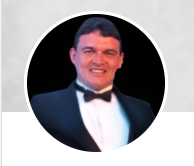
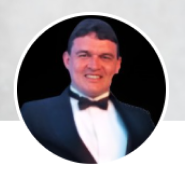
chore: modify styles

diff --git a/src/Components/Card/Card.jsx b/src/Components/Card/Card.jsx
@@ -27,9 +27,9 @@ const Card = () => {
               <div className={style.icon}>
                 <Email />
               </div>
-              <div className={style.infos_name}>
-                <h4>EMAIL</h4>
-                <p>jddatsoc@gmail.com</p>
+              <div>
+                <h4 className="name">EMAIL</h4>
+                <p className="description">jddatsoc@gmail.com</p>
               </div>
             </div>
             <div className={style.infos}>
@@ -37,8 +37,8 @@ const Card = () => {
                 <Phone />
               </div>
               <div className={style.infos_name}>
-                <h4>PHONE</h4>
-                <p>+55 (84) 9 9904-3539</p>
+                <h4 className="name">PHONE</h4>
+                <p className="description">+55 (84) 9 9904-3539</p>
               </div>
             </div>
             <div className={style.infos}>
@@ -46,8 +46,8 @@ const Card = () => {
                 <Birthday />
               </div>
               <div className={style.infos_name}>
-                <h4>BIRTHDAY</h4>
-                <p>May 28, 1985</p>
+                <h4 className="name">BIRTHDAY</h4>
+                <p className="description">May 28, 1985</p>
               </div>
             </div>
             <div className={style.infos}>
@@ -55,8 +55,8 @@ const Card = () => {
                 <Location />
               </div>
               <div className={style.infos_name}>
-                <h4>LOCATION</h4>
-                <p>Natal, Brasil</p>
+                <h4 className="name">LOCATION</h4>
+                <p className="description">Natal, Brasil</p>
               </div>
             </div>
           </div>

diff --git a/src/Components/Content/About_me.jsx b/src/Components/Content/About_me.jsx
@@ -4,20 +4,20 @@ const About_me = () => {
   return (
     <div className="text">
       <p>
-        I'm student a gradate in Computer Science and certified as a Frontend
+        I am currently a Computer Science student and certified as a Frontend
         Engineer by EBAC - British School. I have expertise in problem-solving
-        with technology, Project and team management, Data and performance
-        analysis, Business Intelligence, Marketing and paid traffic analysis,
-        and clear communication.
+        with technology, project and team management, data and performance
+        analysis, Business Intelligence, marketing, paid traffic analysis, and
+        clear communication.
       </p>
       <br />
       <p>
-        As a Frontend Developer since 2021, I have experience in responsive,
-        semantic HTML5, with accessibility and SEO techniques, CSS3, Bootstrap,
+        As a Frontend Developer since 2021, I have experience in responsive
+        HTML5 semantic, with accessibility and SEO techniques, CSS3, Bootstrap,
         Tailwind, LESS, SASS, BEM, SCSS preprocessors, JavaScript, JQuery,
         ReactJS, Typescript, VueJS, React Native, Grunt, Gulp, Parcel, Ajax,
         Redux, Cypress, YUP, JEST build tools, Git version control tools,
-        Github, API consumption, Agile methodologies, VTEX E-commerce platform,
+        GitHub, API consumption, agile methodologies, VTEX e-commerce platform,
         Winthor ERP - TOTVS;
       </p>
     </div>

diff --git a/src/Components/Content/Testemonials.module.css b/src/Components/Content/Testemonials.module.css
@@ -3,12 +3,12 @@
   flex-direction: row;
   overflow-y: auto;
   /* gap: 20px; */
-  padding: 20px;
+  padding: 24px;
   margin-left: -2rem;
   margin-bottom: 4rem;
   white-space: nowrap;
   max-width: 915px;
-  mask: linear-gradient(to right, transparent, red 15%, red 85%, transparent);
+  mask: linear-gradient(to right, transparent, red 5%, red 95%, transparent);
 }
 
 .cards::-webkit-scrollbar {
@@ -27,10 +27,10 @@
 }
 
 .card {
-  background: #5d5d5d;
-  width: 30rem;
+  background: #535252;
+  width: 27rem;
   border-radius: 25px;
-  margin: 25px 2px 0px 90px;
+  margin: 25px 2px 0px 25px;
   display: flex;
   box-shadow: 2px 2px 2px 1px rgba(0, 0, 0, 0.2);
   position: relative;
@@ -40,8 +40,8 @@
   position: absolute;
   width: 80px;
   border-radius: 50%;
-  margin-left: 60px;
-  margin-top: -30px;
+  margin-left: 40px;
+  margin-top: -40px;
 }
 
 .box {

diff --git a/src/Components/Card/Card.module.css b/src/Components/Card/Card.module.css
@@ -1,7 +1,7 @@
 .side_card {
   background-color: #474747;
-  width: 250px;
-  height: 38rem;
+  width: 280px;
+  height: 45rem;
   border: solid 2px #fff;
   border-radius: 8px;
   position: sticky;
@@ -41,7 +41,7 @@ button {
   height: 2px;
   display: block;
   margin: 0 auto;
-  background: #787878;
+  background: #535252;
   border-radius: 8px;
   margin-top: 1.5rem;
 }
@@ -56,7 +56,7 @@ button {
 
 /* detalhe */
 .icon {
-  background: #787878;
+  background: #535252;
   width: 40px;
   height: 40px;
   border-radius: 8px;
@@ -78,7 +78,7 @@ button {
 }
 
 .midias {
-  margin-top: 2rem;
+  margin-top: 4rem;
   display: flex;
   justify-content: center;
   gap: 1rem;

diff --git a/src/Components/Content/Doing.module.css b/src/Components/Content/Doing.module.css
@@ -5,7 +5,7 @@
   gap: 20px;
 }
 .card {
-  background: #5d5d5d;
+  background: #535252;
   width: 25rem;
   /* height: 8rem; */
   border-radius: 25px;

diff --git a/src/App.css b/src/App.css
@@ -70,6 +70,7 @@ a {
 
 .text {
   margin: 2rem 2rem 0px 2rem;
+  max-width: 50rem;
 }
 
 .text p {
